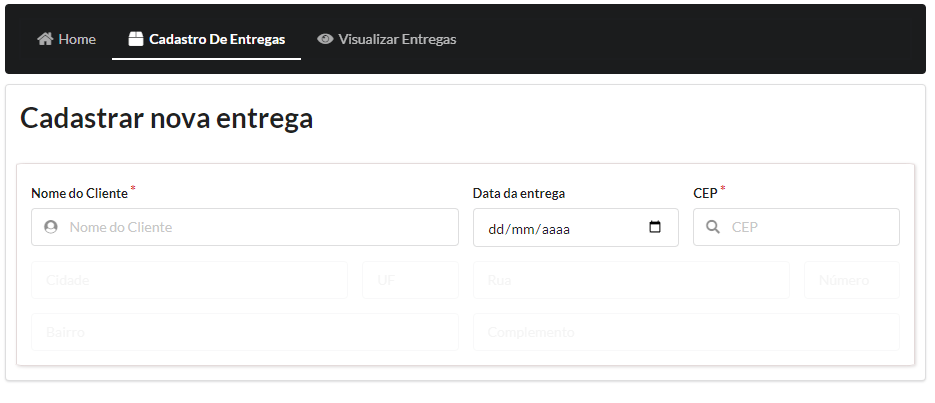
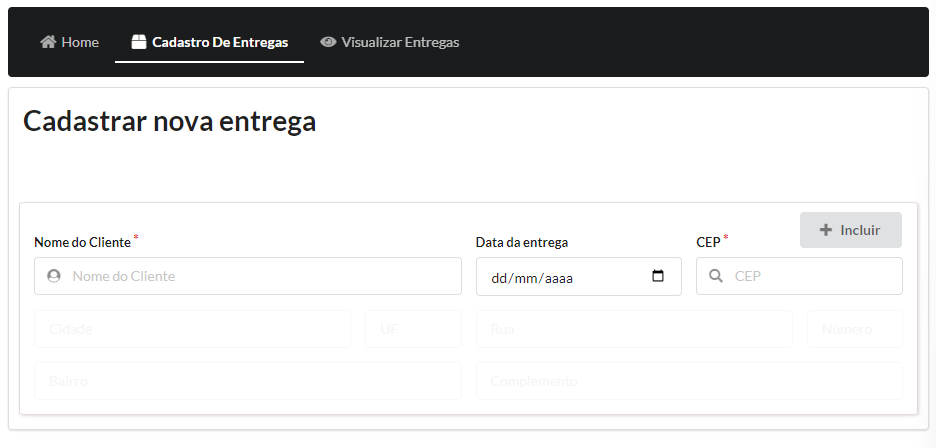
fix: fixing button css

diff --git a/src/components/pages/RegisterDelivery/RegisterDelivery.css b/src/components/pages/RegisterDelivery/RegisterDelivery.css
@@ -23,7 +23,7 @@
 
 .btn-submit {
   position: inherit;
-  top: 18.3%;
+  top: 45px;
   right: 23px;
   z-index: 1;
 }
